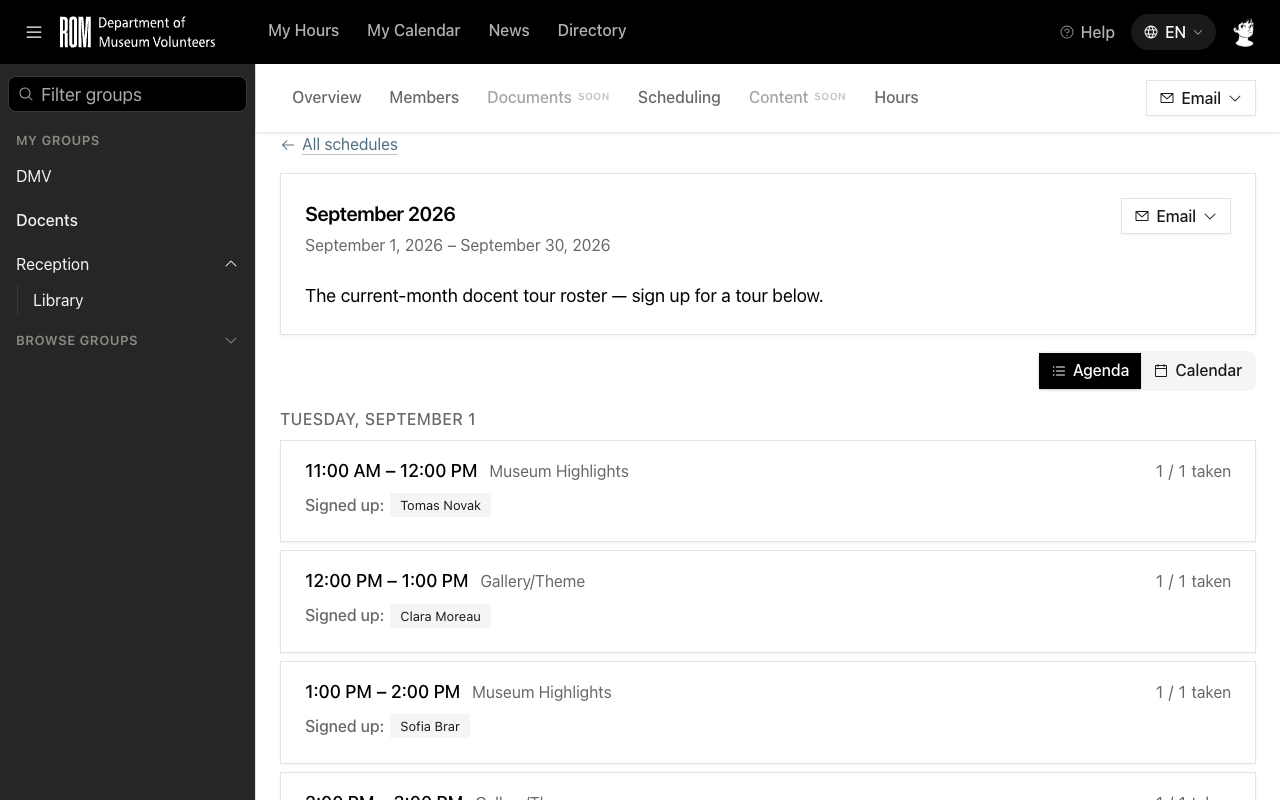
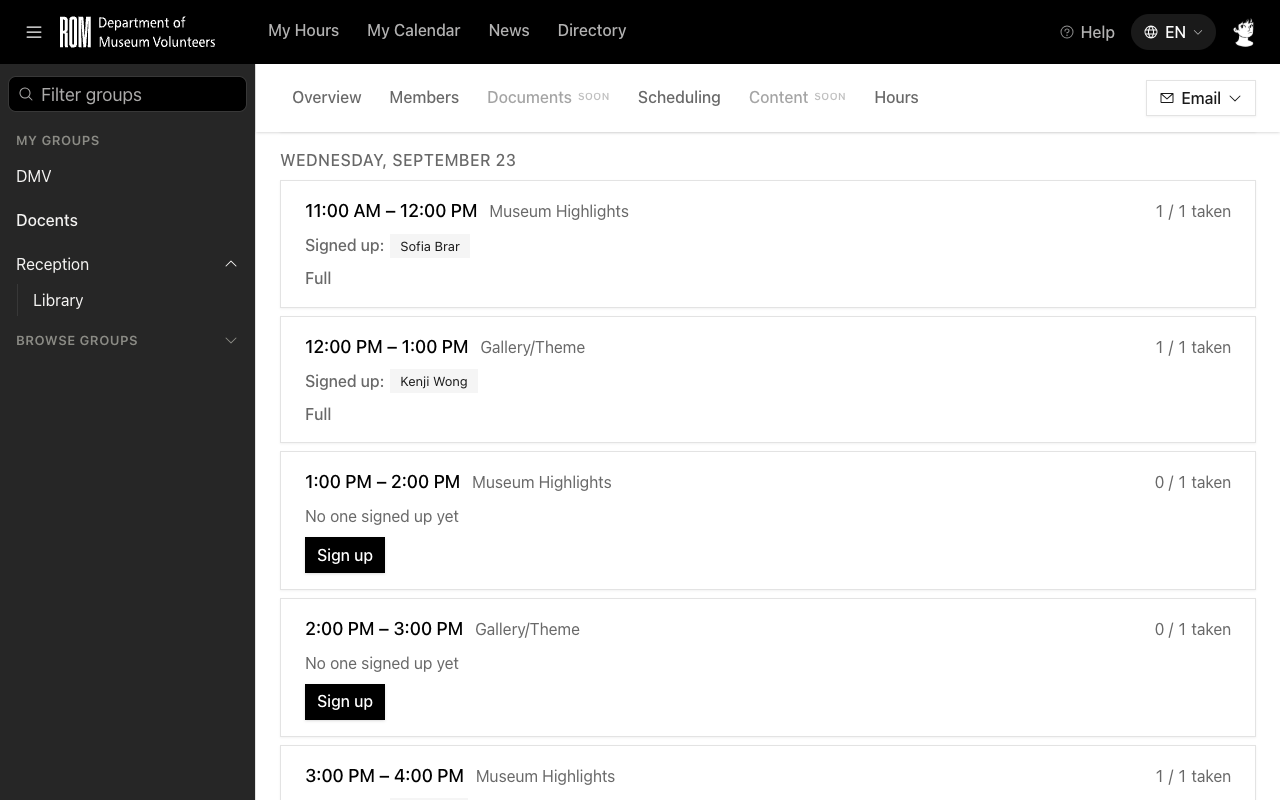
docs(help): frame an upcoming full shift in the Scheduling overview shot (#569)
The overview caption says "a full shift says Full", but the reshot
agenda opened on the 1st, where every Shift is past and shows no Full
tag. A new helper, showUpcomingFullShift, scrolls to the first upcoming
day with a full Shift. It shares the upcoming-day test with
showUpcomingPlaceAMember.

The runner README now says the runner clears localStorage at sign-in,
and that a step script may have no steps.

diff --git a/resources/help/screenshot-runner/page-helpers.js b/resources/help/screenshot-runner/page-helpers.js
@@ -358,21 +358,43 @@
         return showShiftWithButton(/^edit$/i);
     }
 
-    // The first Agenda Shift still ahead that a schedule admin can place a Member on, scrolled
-    // so its day heading stays in frame. Each Agenda day is a block led by an h3 such as
-    // "Tuesday, September 8", read against today in the current year.
-    function showUpcomingPlaceAMember() {
+    // Each Agenda day is a block led by an h3 such as "Tuesday, September 8", read against
+    // today in the current year. A day still ahead is one whose Shifts show live controls.
+    function agendaDayHeading(element) {
+        return element.closest('[data-slot="card"]')?.parentElement?.querySelector('h3') ?? null;
+    }
+
+    function isUpcomingDay(heading) {
         const today = new Date();
         today.setHours(0, 0, 0, 0);
+        return new Date(`${heading.textContent.trim()} ${today.getFullYear()}`) >= today;
+    }
+
+    // The first Agenda Shift still ahead that a schedule admin can place a Member on, scrolled
+    // so its day heading stays in frame.
+    function showUpcomingPlaceAMember() {
         const button = Array.from(document.querySelectorAll('button'))
             .filter((element) => /^place a member$/i.test(element.textContent.trim()) && outsideMySignUps(element))
             .find((element) => {
-                const heading = element.closest('[data-slot="card"]')?.parentElement?.querySelector('h3');
-                return heading && new Date(`${heading.textContent.trim()} ${today.getFullYear()}`) >= today;
+                const heading = agendaDayHeading(element);
+                return heading && isUpcomingDay(heading);
             });
         if (!button) return false;
-        const heading = button.closest('[data-slot="card"]').parentElement.querySelector('h3');
-        scrollUnderStickyStrip(heading, 16);
+        scrollUnderStickyStrip(agendaDayHeading(button), 16);
+        return settle();
+    }
+
+    // The first Agenda day still ahead with a full Shift on it, scrolled so its heading stays in
+    // frame. A past Shift shows its seats but no Full tag, so the overview shot starts here: the
+    // day shows seats taken against capacity, and a full Shift beside one still open.
+    function showUpcomingFullShift() {
+        const full = Array.from(document.querySelectorAll('[data-slot="card"] *')).find((element) => {
+            if (element.children.length || element.textContent.trim() !== 'Full' || !outsideMySignUps(element)) return false;
+            const heading = agendaDayHeading(element);
+            return heading && isUpcomingDay(heading);
+        });
+        if (!full) return false;
+        scrollUnderStickyStrip(agendaDayHeading(full), 16);
         return settle();
     }
 
@@ -587,6 +609,7 @@
         openWriteMyShiftDialog,
         showMyWrittenShift,
         showUpcomingPlaceAMember,
+        showUpcomingFullShift,
         openPlaceAMemberDialog,
         showCorrectionPencil,
         openCorrectionForm,

diff --git a/resources/help/screenshot-runner/README.md b/resources/help/screenshot-runner/README.md
@@ -44,6 +44,8 @@ act highlightHelpLink 02    # run one in-page helper, then shoot it
   the sticky tab strip; anything a plain `nav` cannot show.
 - Leave `NN` off a `nav` or `act` line to take no shot. Use it to reload a page and
   close a dialog, or to open a Schedule before the helper that frames the shot.
+- An article with nothing to shoot keeps its script with no steps. The script
+  records why, and the runner signs in and takes no shots.
 
 Keep an article to one screen of reading, so a handful of shots. The comment
 after each step is the note to yourself about what the shot should show; the
@@ -55,7 +57,9 @@ Shoot each article as the account that does the task, so the chrome in the shot
 matches the reader's. All Personas share the dev password `password`. The
 browser keeps its cookies between runs, so the runner signs the previous Persona
 out before it signs the script's Persona in; two articles shot back to back never
-share a session.
+share a session. The browser keeps localStorage too, so the runner clears it at
+sign-in. A view choice from an earlier run, such as the Schedule's Calendar
+view, never carries into a shot.
 
 | Article kind                 | Persona                 | Email                     |
 | ---------------------------- | ----------------------- | ------------------------- |
